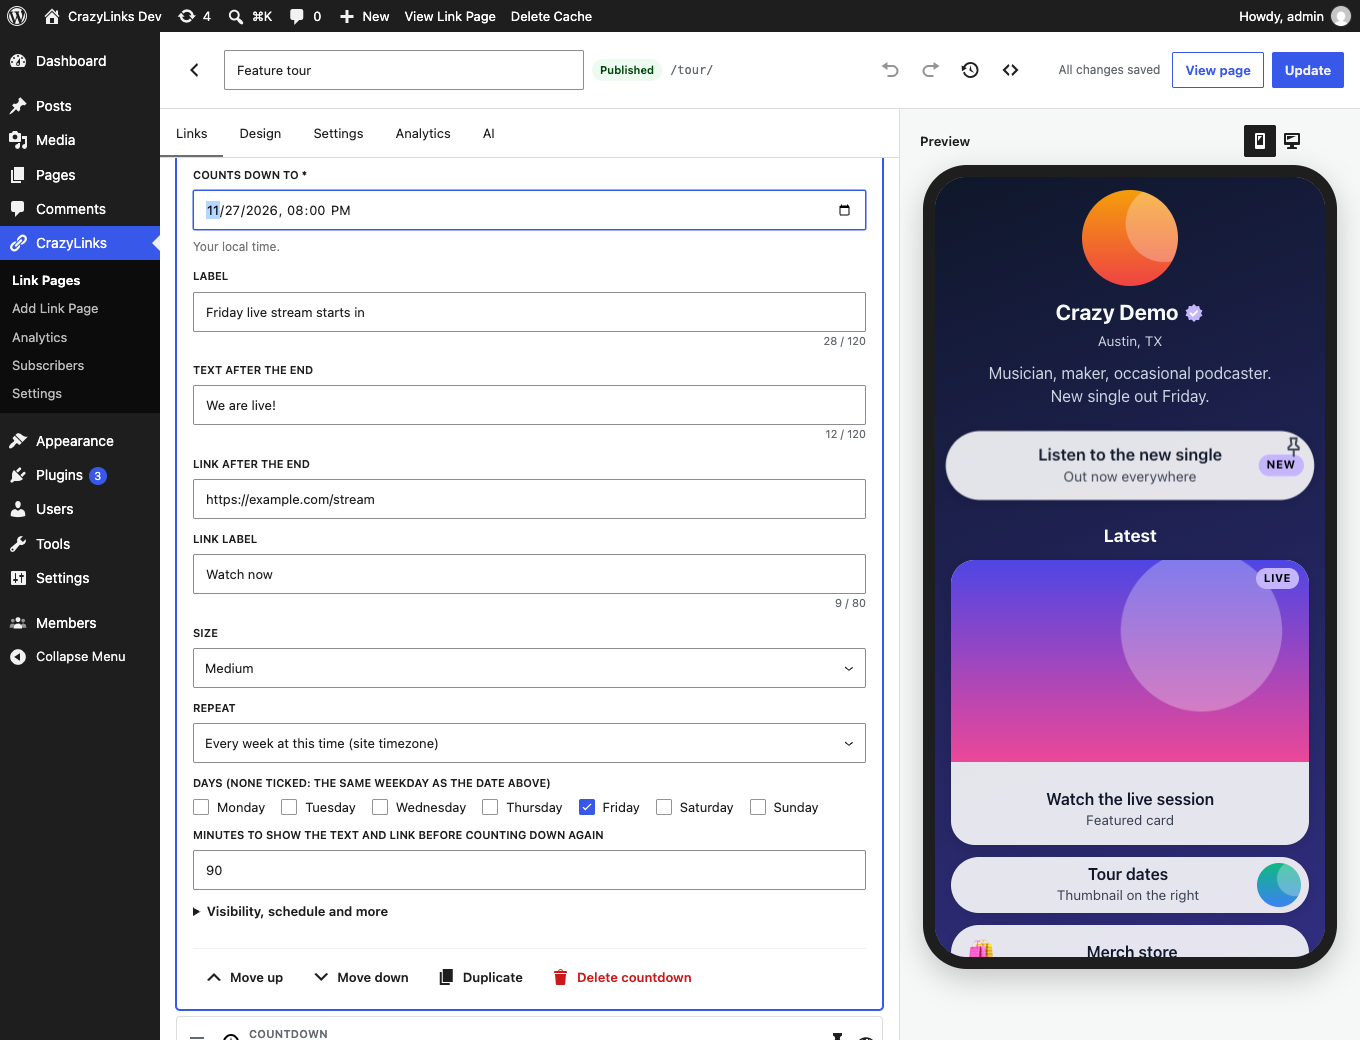
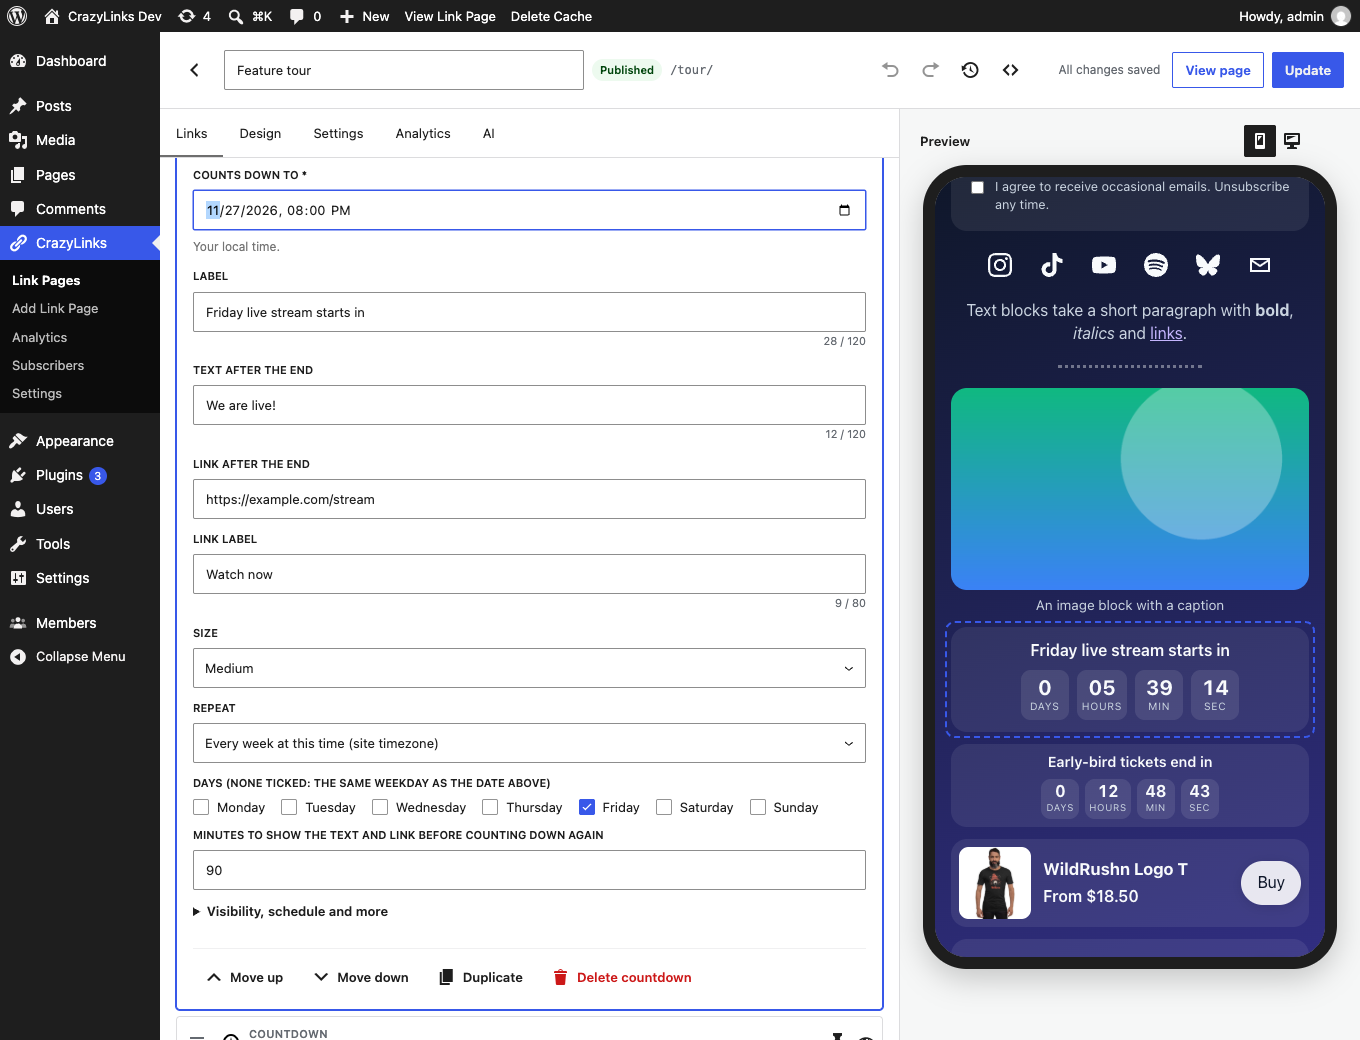
Docs and tests: retake every screenshot at 0.3.7, drop review ids from test names

Changed region(s): [[0.6794, 0.1538, 0.9882, 0.9231]]

diff --git a/crazylinks/tests/integration/AbuseLimitsTest.php b/crazylinks/tests/integration/AbuseLimitsTest.php
@@ -47,7 +47,7 @@ class AbuseLimitsTest extends TestCase {
 	}
 
 	/**
-	 * F2: rotating the UA from one IP is one view, one unique, and writes no option rows.
+	 * Rotating the UA from one IP is one view, one unique, and writes no option rows.
 	 */
 	public function test_rotating_user_agents_are_one_visitor_for_views(): void {
 		$post = $this->make_page( $this->doc() );
@@ -68,7 +68,7 @@ class AbuseLimitsTest extends TestCase {
 	}
 
 	/**
-	 * F2: rotating the UA does not escape the click rate limit.
+	 * Rotating the UA does not escape the click rate limit.
 	 */
 	public function test_rotating_user_agents_hit_the_click_limit(): void {
 		update_option( Settings::OPTION, [ 'clicks_per_minute' => 20 ] );
@@ -91,7 +91,7 @@ class AbuseLimitsTest extends TestCase {
 	}
 
 	/**
-	 * F2: views are limited per IP across all pages (filterable).
+	 * Views are limited per IP across all pages (filterable).
 	 */
 	public function test_views_are_rate_limited_per_ip_across_pages(): void {
 		$this->assertSame( 120, EventLogger::view_limit() );
@@ -107,7 +107,7 @@ class AbuseLimitsTest extends TestCase {
 	}
 
 	/**
-	 * F2: with a persistent object cache the limiter uses it and leaves the table alone.
+	 * With a persistent object cache the limiter uses it and leaves the table alone.
 	 */
 	public function test_object_cache_backend_is_used_when_available(): void {
 		$was    = (bool) wp_using_ext_object_cache( true );
@@ -126,7 +126,7 @@ class AbuseLimitsTest extends TestCase {
 	}
 
 	/**
-	 * F2: expired limiter rows are swept.
+	 * Expired limiter rows are swept.
 	 */
 	public function test_expired_limiter_rows_are_swept(): void {
 		RateLimiter::first_in_window( 'short', 1 );
@@ -137,7 +137,7 @@ class AbuseLimitsTest extends TestCase {
 	}
 
 	/**
-	 * F2: the salt is not autoloaded, is mixed with wp_salt(), and is the same for racing requests.
+	 * The salt is not autoloaded, is mixed with wp_salt(), and is the same for racing requests.
 	 */
 	public function test_salt_is_private_and_race_safe(): void {
 		global $wpdb;
@@ -169,7 +169,7 @@ class AbuseLimitsTest extends TestCase {
 	}
 
 	/**
-	 * F2: the abuse key ignores the user agent; the uniques hash does not.
+	 * The abuse key ignores the user agent; the uniques hash does not.
 	 */
 	public function test_abuse_key_ignores_user_agent(): void {
 		$a = new Visitor( self::IP, self::ua( 1 ), '' );
@@ -215,7 +215,7 @@ class AbuseLimitsTest extends TestCase {
 	}
 
 	/**
-	 * F8: every unavailable case gives the same answer; a valid one is accepted.
+	 * Every unavailable case gives the same answer; a valid one is accepted.
 	 */
 	public function test_subscribe_has_one_generic_not_found_and_same_checks_as_go(): void {
 		add_filter( 'crazylinks_subscribe_rate_limit', static fn() => 100 );
@@ -288,7 +288,7 @@ class AbuseLimitsTest extends TestCase {
 	}
 
 	/**
-	 * F8: 5 attempts per IP per hour, and rotating the UA does not reset it.
+	 * 5 attempts per IP per hour, and rotating the UA does not reset it.
 	 */
 	public function test_subscribe_rate_limit_is_per_ip(): void {
 		$ok    = $this->make_page( $this->capture_doc(), 'sub-rl' );

diff --git a/crazylinks/tests/integration/UrlPolicyTest.php b/crazylinks/tests/integration/UrlPolicyTest.php
@@ -120,7 +120,7 @@ class UrlPolicyTest extends TestCase {
 	}
 
 	/**
-	 * Deceptive URLs from the security review (F4).
+	 * Deceptive URLs.
 	 *
 	 * @return array<string, array{string}>
 	 */
@@ -144,18 +144,18 @@ class UrlPolicyTest extends TestCase {
 	}
 
 	/**
-	 * F4: deceptive or ambiguous URLs are rejected.
+	 * Deceptive or ambiguous URLs are rejected.
 	 *
 	 * @dataProvider deceptive_urls
 	 */
-	public function test_f4_rejects_deceptive_urls( string $url ): void {
+	public function test_rejects_deceptive_urls( string $url ): void {
 		$this->assertSame( '', UrlPolicy::clean( $url ), $url );
 	}
 
 	/**
-	 * F4: intranet links stay allowed unless the filter blocks private hosts.
+	 * Intranet links stay allowed unless the filter blocks private hosts.
 	 */
-	public function test_f4_private_hosts_allowed_by_default_and_blockable(): void {
+	public function test_private_hosts_allowed_by_default_and_blockable(): void {
 		$private = [ 'http://127.0.0.1/', 'http://10.0.0.5/wiki', 'http://192.168.1.10:8080/', 'http://localhost/', 'http://printer.local/', 'http://[::1]/' ];
 		foreach ( $private as $url ) {
 			$this->assertNotSame( '', UrlPolicy::clean( $url ), $url );
@@ -169,9 +169,9 @@ class UrlPolicyTest extends TestCase {
 	}
 
 	/**
-	 * F4: ordinary URLs with @ outside the authority, and IDNs, still pass unchanged.
+	 * Ordinary URLs with @ outside the authority, and IDNs, still pass unchanged.
 	 */
-	public function test_f4_legitimate_urls_survive(): void {
+	public function test_legitimate_urls_survive(): void {
 		foreach ( [ 'https://example.com/?q=a@b', 'https://example.com/@handle', 'https://例え.jp/パス', 'mailto:hi@example.com' ] as $url ) {
 			$this->assertSame( $url, UrlPolicy::clean( $url ), $url );
 		}

diff --git a/crazylinks/tests/integration/AiMcpTest.php b/crazylinks/tests/integration/AiMcpTest.php
@@ -817,7 +817,7 @@ class AiMcpTest extends TestCase {
 	 * propose-changes + apply-changes cannot save more often than apply-operations, and cannot add log
 	 * rows and proposal transients without bound.
 	 */
-	public function test_review_propose_with_operations_counts_against_the_limit(): void {
+	public function test_propose_with_operations_counts_against_the_limit(): void {
 		$this->ai_settings( [ 'ai_user_hourly' => 1 ] );
 		$ops   = [
 			[
@@ -856,7 +856,7 @@ class AiMcpTest extends TestCase {
 	/**
 	 * The agent role edits link pages through MCP and can do nothing else on the site.
 	 */
-	public function test_review_agent_role_is_limited_to_link_pages(): void {
+	public function test_agent_role_is_limited_to_link_pages(): void {
 		$role = Capabilities::ensure_agent_role();
 		$this->assertInstanceOf( \WP_Role::class, $role );
 		$this->assertEqualsCanonicalizing( array_keys( Capabilities::agent_caps() ), array_keys( array_filter( $role->capabilities ) ) );

diff --git a/docs/FEATURES.md b/docs/FEATURES.md
@@ -1,6 +1,6 @@
 # CrazyLinks feature tour
 
-Everything CrazyLinks can do, with an example of each. The screenshots come from a demo page on a local test site, and the analytics numbers in them are made up. They were taken at version 0.3.5.
+Everything CrazyLinks can do, with an example of each. The screenshots come from a demo page on a local test site, and the analytics numbers in them are made up. They were taken at version 0.3.7, and the subscribers shown are made up too.
 
 - [The page](#the-page)
 - [Links](#links)
@@ -136,9 +136,9 @@ Selecting a block opens its settings. Here is the weekly countdown, with its siz
 
 ![The Countdown block's settings](screenshots/tour/editor-countdown.png)
 
-A new page starts with a three-step wizard for the name, the theme and your profile links, which it recognises as you paste them:
+A new page starts with a three-step wizard: about you, a theme, and your profile links.
 
-![The last step of the setup wizard, with pasted profile links recognised](screenshots/editor-wizard.png)
+![The first step of the setup wizard](screenshots/editor-wizard.png)
 
 ## Analytics
 
